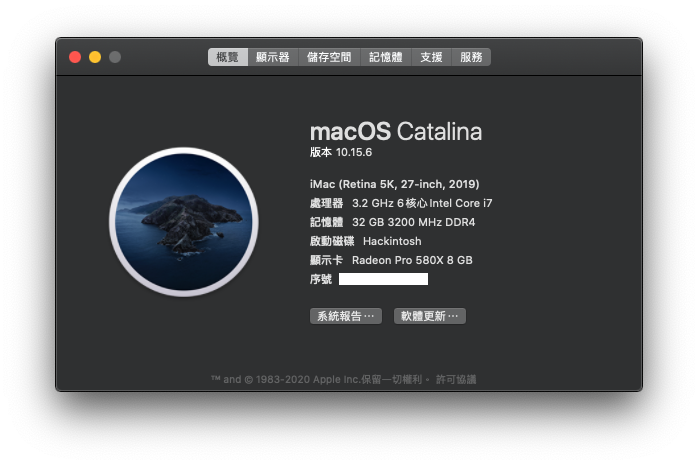
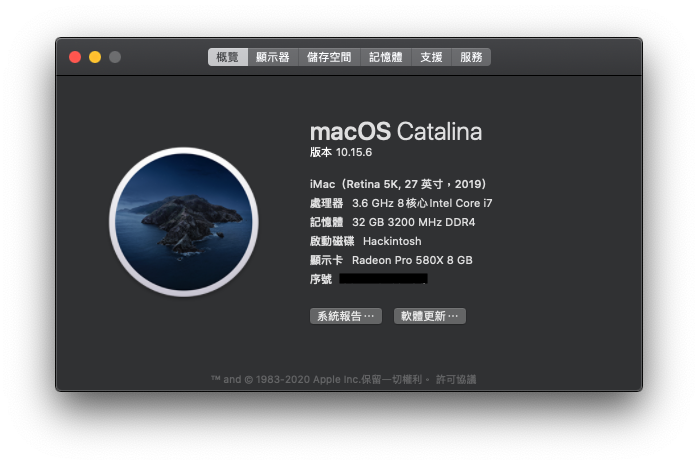
upgrade HW

Changed region(s): [[0.4814, 0.3613, 0.692, 0.4516], [0.4814, 0.572, 0.6318, 0.6323]]

diff --git a/README.md b/README.md
@@ -15,7 +15,7 @@ Thanks for [OpenCore Desktop Guide](https://dortania.github.io/OpenCore-Install-
 ### Parts List
 Type|Item
 :----|:----
-**CPU** | Intel - Core i7-8700 3.2 GHz 6-Core Processor
+**CPU** | Intel - Core i7-9700k 3.6 GHz 8-Core Processor
 **CPU Cooler** | Coolermaster MASTERLIQUID ML240L RGB
 **Motherboard** | Asus - ROG STRIX Z390-F GAMING ATX LGA1151 Motherboard
 **Memory** | Kingston HyperX Predator RGB (Black) DDR4-3200 Memory 32 GB (8G*4)

diff --git a/README_cht.md b/README_cht.md
@@ -16,7 +16,7 @@
 ---
 規格|型號
 :----|:----
-**CPU** | 英特爾 Intel - Core i7-8700 3.2 GHz 6核心 Processor
+**CPU** | 英特爾 Intel - Core i7-9700k 3.6 GHz 8核心 Processor
 **散熱系統** | 酷碼 Coolermaster MASTERLIQUID ML240L RGB
 **主機板(MB)** | 華碩 ROG STRIX Z390-F GAMING ATX LGA1151
 **記憶體(DRAM)** | 金士頓 Kingston HyperX Predator RGB (黑) DDR4-3200 32 GB (8G*4)

diff --git a/changelog.md b/changelog.md
@@ -2,3 +2,7 @@
 
 ## 2020-08-18
 - add new Plextor ssd to my desktop, and install ubuntu linux to it.
+
+## 2020-08-22
+- replace i7-8700 w/ i7-9700k
+- update config.plist to spoof RX580 as Radeon Pro 580.
